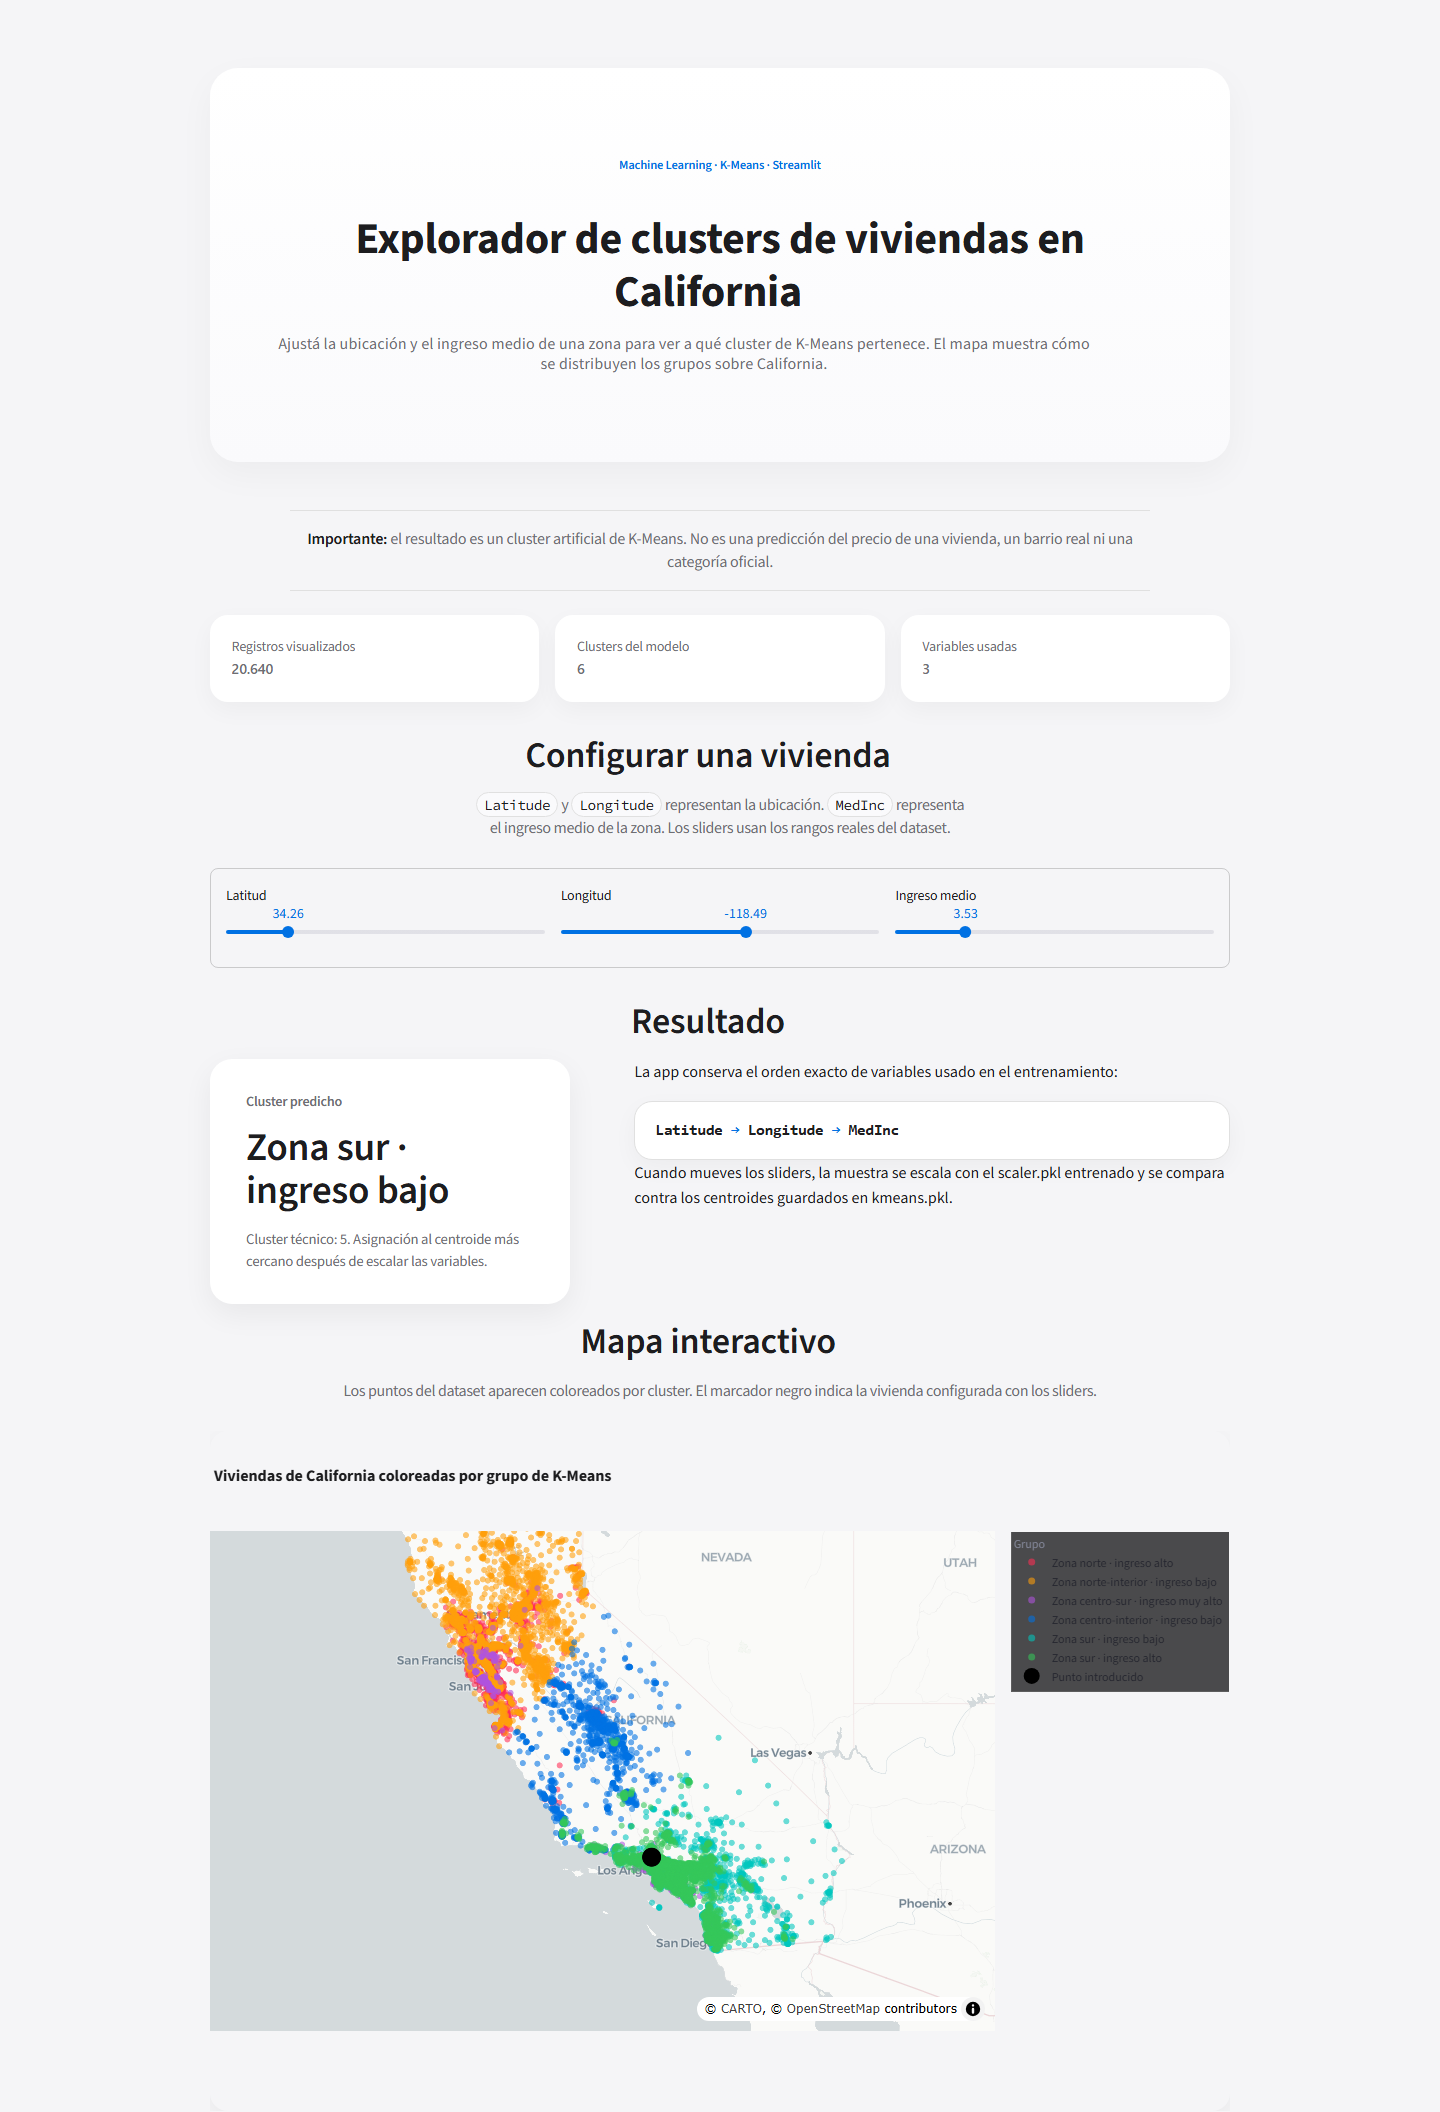
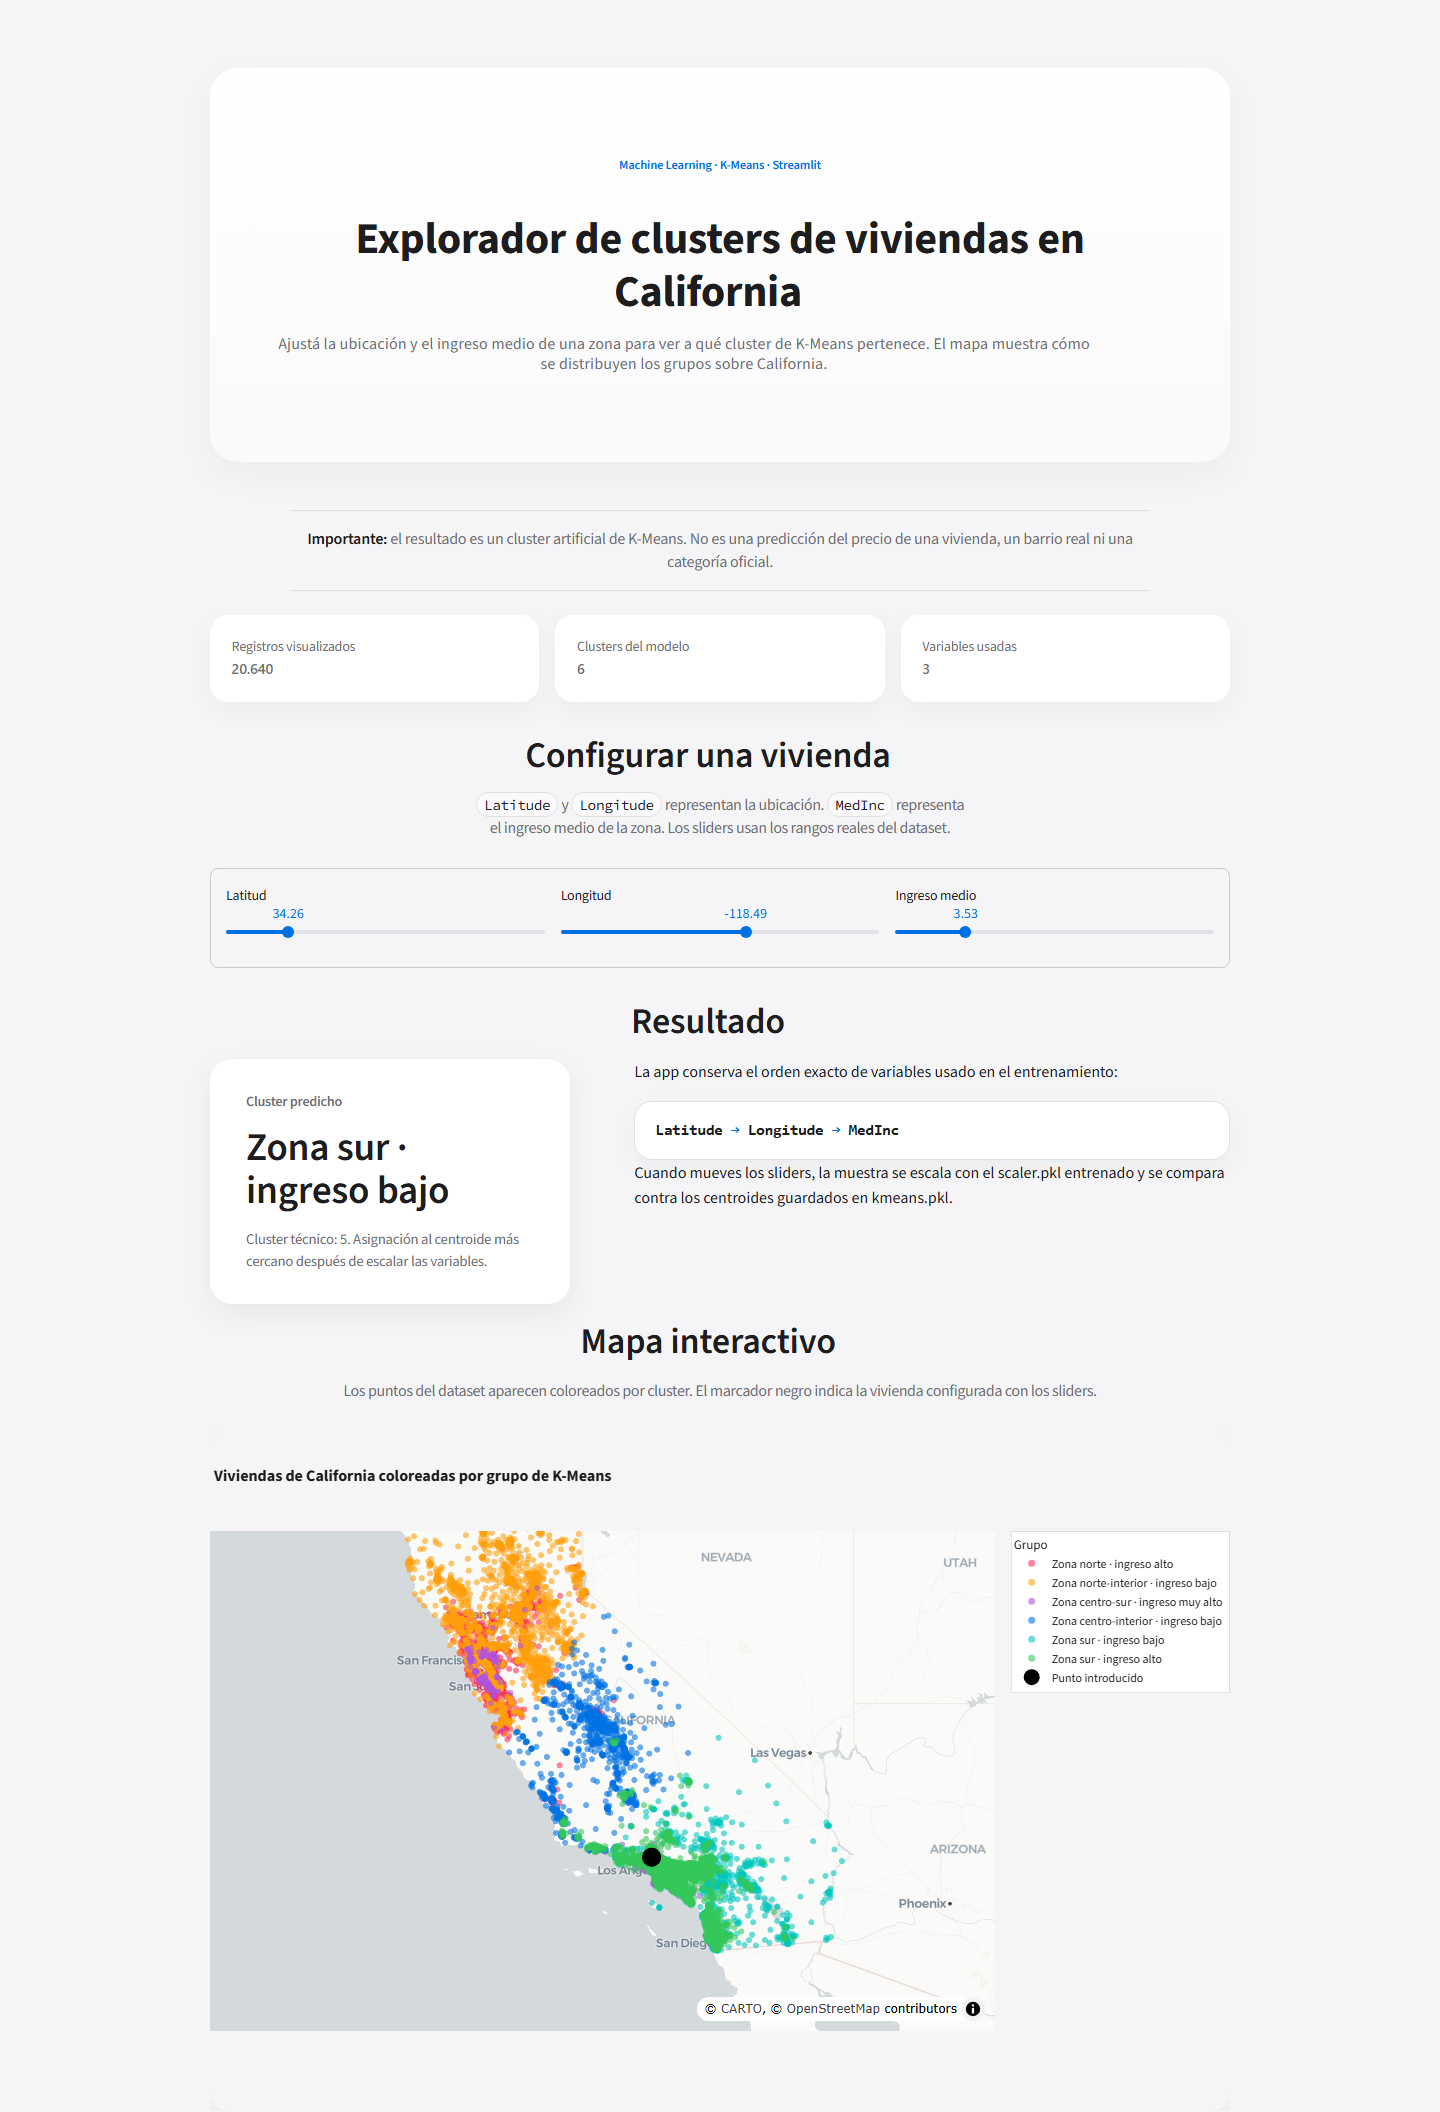
docs: link to source k-means project repo and refresh app preview with light legend

Changed region(s): [[0.6875, 0.7188, 0.875, 0.8125]]

diff --git a/README.md b/README.md
@@ -2,7 +2,7 @@
 
 ## Contexto
 
-Este proyecto toma el modelo de K-Means entrenado en el proyecto anterior (California Housing) y lo expone como una aplicación web interactiva.
+Este proyecto toma el modelo de K-Means entrenado en el proyecto anterior (California Housing) y lo expone como una aplicación web interactiva. El modelo original está en [20-k-means-4geeks-project](https://github.com/Cerco01/20-k-means-4geeks-project).
 
 La app permite configurar una vivienda con tres variables y ver a qué cluster del modelo pertenece, además de mostrar todos los registros del dataset sobre un mapa.
 
